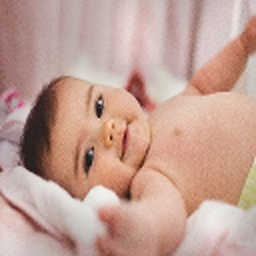
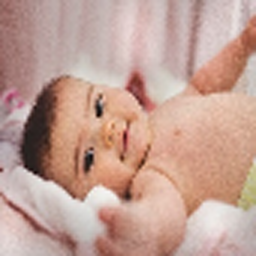
3

diff --git a/preprocess.py b/preprocess.py
@@ -44,4 +44,4 @@ def down(path, factor):
 new_path = os.path.join(os.getcwd(),'hr_image')
 write_path = os.path.join(os.getcwd(), 'lr_image/')
 print(write_path)
-down(new_path, 2)
+down(new_path, 3)
